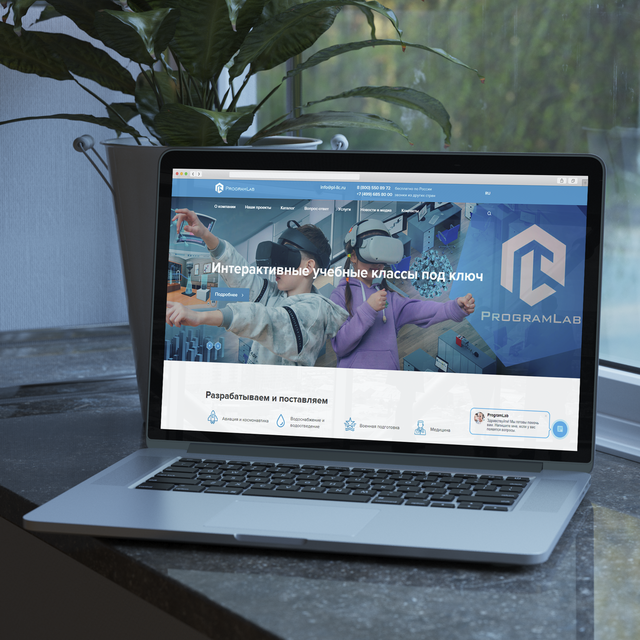
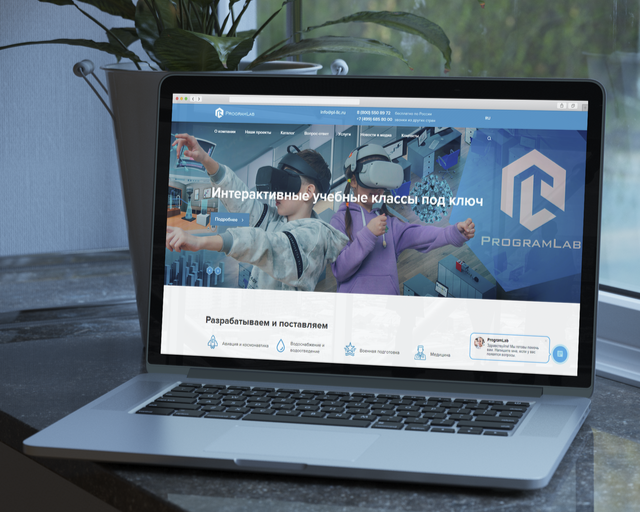
style: fix portfolio card styles

diff --git a/index.html b/index.html
@@ -738,12 +738,12 @@
                                     <label class="error" for="topic">Пожалуйста, выберите тему обращения</label>
                                 </div>
                             </div>
-                            <div class="feedback-form__group">
+                            <div class="feedback-form__group  mb-1">
                                 <label for="message" class="feedback-form__label">Сообщение <span
                                         class="form__required">*</span></label>
                                 <textarea id="message" name="clientMessage" class="feedback-form__control" rows="8"
-                                    placeholder="Напишите текст обращения" minlength="10" maxlength="1000" data-type="message"
-                                    required></textarea>
+                                    placeholder="Напишите текст обращения" minlength="10" maxlength="1000"
+                                    data-type="message" required></textarea>
 
                                 <div class="hs-error-msgs">
                                     <label class="error" for="message">Напишите текст обращения</label>
@@ -751,9 +751,10 @@
                             </div>
                             <div class="feedback-form__group">
                                 <label class="feedback-form__label-t">Отправляя данные, подтверждаю согласие с <a
-                                    href="./uploads/politika.docx" download="Пользовательское соглашение ProgramWeb"
-                                    target="_blank" rel="noopener noreferrer" class="legal-link">Политикой в области
-                                    обработки и защиты персональных данных.</a>
+                                        href="./uploads/politika.docx"
+                                        download="Политика в области обработки и защиты персональных данных ProgramWeb"
+                                        target="_blank" rel="noopener noreferrer" class="legal-link">Политикой в области
+                                        обработки и защиты персональных данных.</a>
                                     <input type="hidden" class="token" id="g-recaptcha-response"
                                         name="g-recaptcha-response">
                             </div>

diff --git a/assets/styles/style.css b/assets/styles/style.css
@@ -609,6 +609,7 @@ ul.navbar-nav {
     list-style: none;
     padding: 0;
     margin: 1rem 0 0 1rem;
+    z-index: 1000;
 }
 
 .tags__item {
@@ -629,7 +630,7 @@ ul.navbar-nav {
     max-width: 680px;
     max-height: 492px;
     object-fit: cover;
-    /* object-position: center; */
+    object-position: top;
     border-bottom: 6px solid var(--color-vivid-blue);
 }
 
@@ -1737,5 +1738,9 @@ img#captchaImg {
 
     .tags__item {
         font-size: 8px;
+    }
+    
+    .portfolio-card__image img {
+        max-height: 352px;
     }
 }
